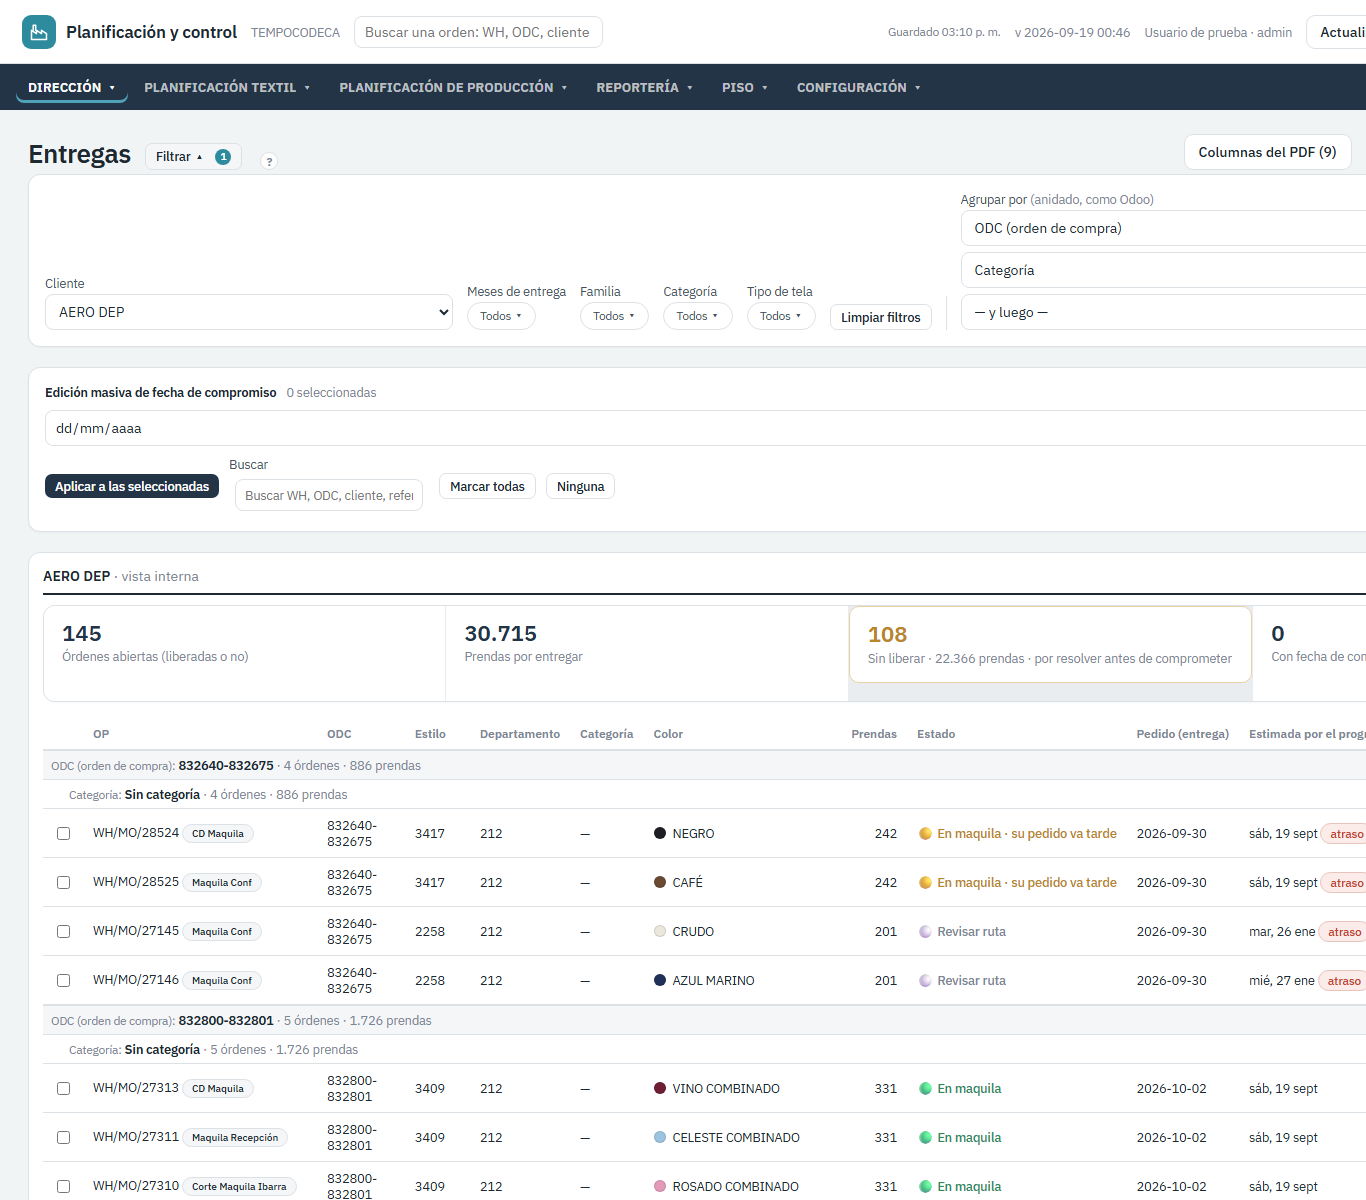
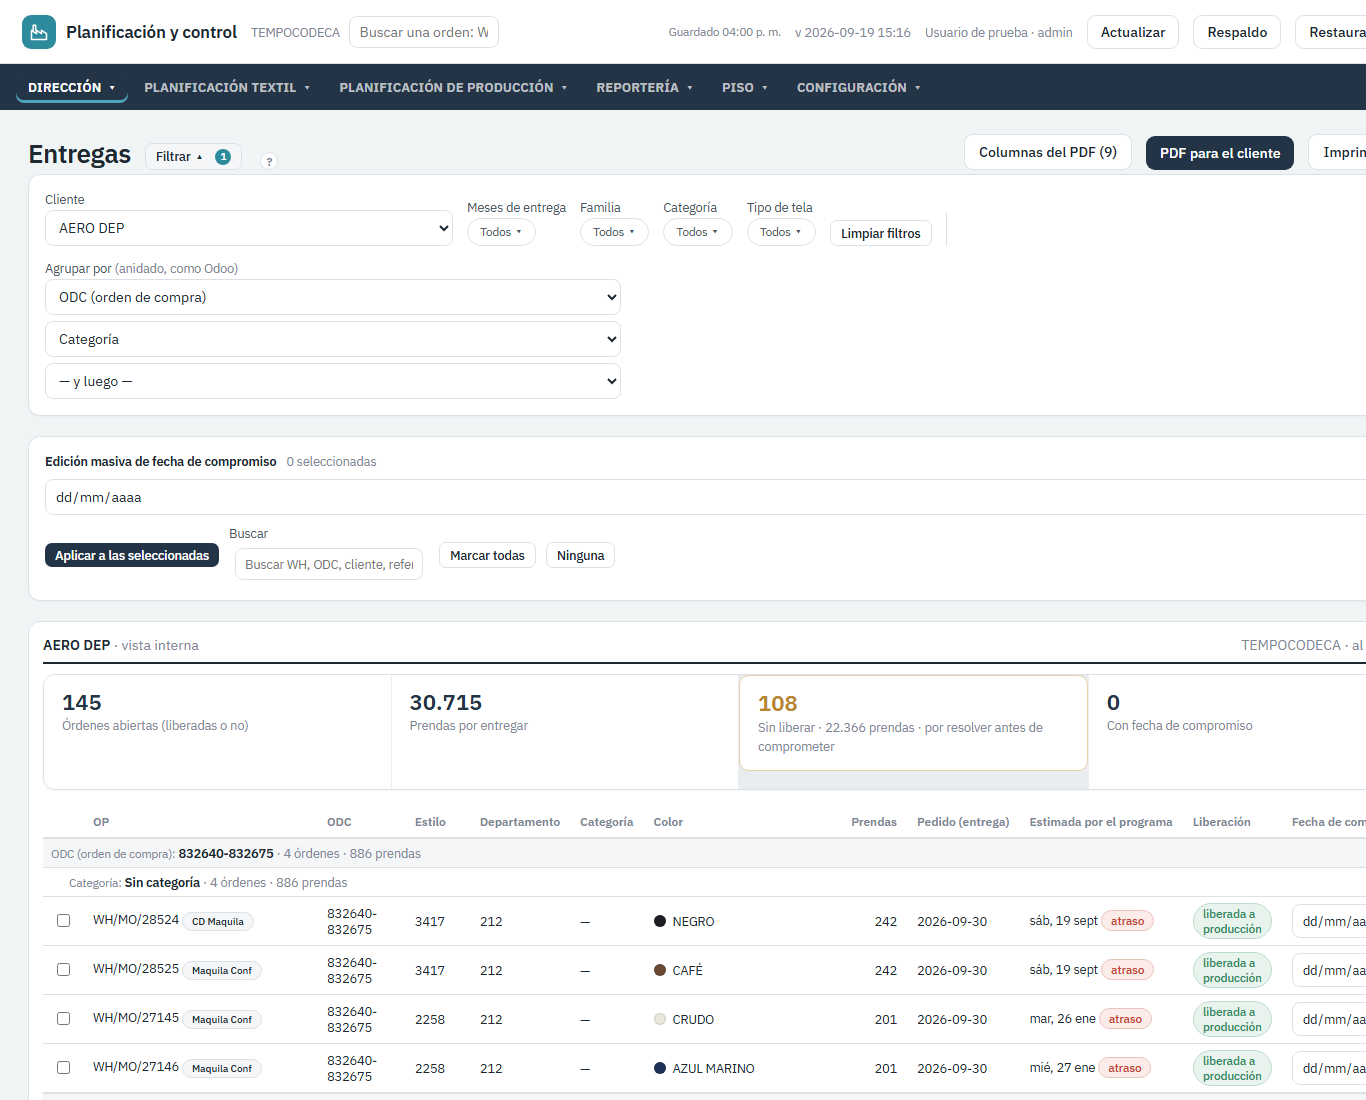
Resumen del centro: Listas = solo el grupo Disponible (el puesto manual ordena, no promueve) y solo órdenes de planta (con WH y tela liberada: lo de diseño / sin WH no entra, con nota de cuántas quedan fuera); Entregas vuelve como estaba (sin la columna de semáforo, como el cliente la necesita); pru

diff --git a/index.html b/index.html
@@ -768,7 +768,7 @@ async function _save(){
 }
 
 /* ---------- versión cargada vs publicada: nunca mirar números de una copia vieja sin saberlo ---------- */
-const APP_BUILD='2026-09-19 15:16';
+const APP_BUILD='2026-09-19 16:00';
 function verBotonesAdmin(){const ok=puede('config');['btn-respaldo','btn-restaurar'].forEach(id=>{const b=document.getElementById(id);if(b)b.style.display=ok?'':'none'})}
 function verVersion(){const e=document.getElementById('version');if(e)e.textContent='v '+APP_BUILD}
 async function revisarVersion(){try{const r=await fetch(location.pathname+'?nocache='+Date.now(),{cache:'no-store'});if(!r.ok)return;const t=await r.text();const m=t.match(/APP_BUILD=\x27([^\x27]+)\x27/);if(!m)return;
@@ -3510,7 +3510,7 @@ function vEntregas(el){
   if(!EG.cli&&clis.length){EG.cli=clis[0];vEntregas(el);return}
   const pzTot=lista.reduce((a,o)=>a+ +o.cant,0);const selCount=EG.sel.size;const nCols=colsEntregas().filter(colPdfOn).length;
   const sinLib=lista.filter(o=>!liberada(o,'tela')),sinLibPz=sinLib.reduce((a,o)=>a+ +o.cant,0);
-  const fila=o=>{const r=P.ordenes[o.id]||{};const lib=estadoLibEG(o);return `<tr><td class="no-print"><input type="checkbox" ${EG.sel.has(o.id)?'checked':''} onchange="togSelEG('${o.id}',this.checked)"></td><td style="white-space:nowrap">${whCell(o)}</td><td>${esc(o.odc||'')}</td><td>${esc(o.ref||'')}</td><td>${esc(o.depto||'')}</td><td>${esc(nombreCat(K(o.cat)))}</td><td style="white-space:nowrap">${dotColor(o.color)}${esc((C(o.color)||{}).n||'')}</td><td class="num">${num(o.cant)}</td><td>${estadoSemaforoHTML(o,P)}</td><td>${o.fecha||'<span class="tag t-aviso" title="sin fecha de entrega en Odoo">sin fecha</span>'}</td><td>${r.finPro?fmtDia(r.finPro)+(r.atraso?' <span class="tag t-alerta">atraso</span>':''):(r.bloqueo?'<span class="tag t-lavado">'+esc(r.bloqueo)+'</span>':'—')}</td>
+  const fila=o=>{const r=P.ordenes[o.id]||{};const lib=estadoLibEG(o);return `<tr><td class="no-print"><input type="checkbox" ${EG.sel.has(o.id)?'checked':''} onchange="togSelEG('${o.id}',this.checked)"></td><td style="white-space:nowrap">${whCell(o)}</td><td>${esc(o.odc||'')}</td><td>${esc(o.ref||'')}</td><td>${esc(o.depto||'')}</td><td>${esc(nombreCat(K(o.cat)))}</td><td style="white-space:nowrap">${dotColor(o.color)}${esc((C(o.color)||{}).n||'')}</td><td class="num">${num(o.cant)}</td><td>${o.fecha||'<span class="tag t-aviso" title="sin fecha de entrega en Odoo">sin fecha</span>'}</td><td>${r.finPro?fmtDia(r.finPro)+(r.atraso?' <span class="tag t-alerta">atraso</span>':''):(r.bloqueo?'<span class="tag t-lavado">'+esc(r.bloqueo)+'</span>':'—')}</td>
      <td><span class="tag ${lib==='sin liberar'?'t-lavado':'t-ok'}">${esc(lib)}</span></td>
      <td><input type="date" value="${o.fechaCompromiso||''}" ${puede('ordenes')?'':'disabled'} onchange="setCompromiso('${o.id}',this.value)"></td></tr>`};
   el.innerHTML=`<div class="pagehead"><h2>Entregas</h2><span class="spacer"></span><button class="btn ghost no-print" onclick="mColsEntregas()">Columnas del PDF (${nCols})</button> <button class="btn no-print" onclick="EG.pdf=true;render()">PDF para el cliente</button> <button class="btn ghost no-print" onclick="window.print()" title="imprime esta pantalla tal cual, con los datos internos">Imprimir pantalla</button></div>
@@ -3530,8 +3530,8 @@ function vEntregas(el){
    <button class="btn ghost sm" onclick="marcarTodoEG(false)">Ninguna</button></div></div>
   <section class="imp"><div class="imp-cab"><div><b>${esc(EG.cli||'Todos los clientes')}</b> <span class="mut">· vista interna</span></div><div class="mut">TEMPOCODECA · al ${new Date().toLocaleDateString('es-EC')}</div></div>
   <div class="kpis" style="margin:10px 0 16px"><div class="kpi"><div class="v">${lista.length}</div><div class="k">Órdenes abiertas (liberadas o no)</div></div><div class="kpi"><div class="v">${num(pzTot)}</div><div class="k">Prendas por entregar</div></div><div class="kpi ${sinLib.length?'warn':''}"><div class="v">${sinLib.length}</div><div class="k">Sin liberar · ${num(sinLibPz)} prendas · por resolver antes de comprometer</div></div><div class="kpi"><div class="v">${lista.filter(o=>o.fechaCompromiso).length}</div><div class="k">Con fecha de compromiso</div></div></div>
-  ${lista.length?`<table><thead><tr><th class="no-print" style="width:24px"></th><th>OP</th><th>ODC</th><th>Estilo</th><th>Departamento</th><th>Categoría</th><th>Color</th><th class="num">Prendas</th><th>Estado</th><th>Pedido (entrega)</th><th>Estimada por el programa</th><th>Liberación</th><th style="width:150px">Fecha de compromiso</th></tr></thead><tbody>
-   ${filasArbolEG(arbol,fila,13)}</tbody></table>`:'<p class="mut">Nada pendiente con estos filtros.</p>'}
+  ${lista.length?`<table><thead><tr><th class="no-print" style="width:24px"></th><th>OP</th><th>ODC</th><th>Estilo</th><th>Departamento</th><th>Categoría</th><th>Color</th><th class="num">Prendas</th><th>Pedido (entrega)</th><th>Estimada por el programa</th><th>Liberación</th><th style="width:150px">Fecha de compromiso</th></tr></thead><tbody>
+   ${filasArbolEG(arbol,fila,12)}</tbody></table>`:'<p class="mut">Nada pendiente con estos filtros.</p>'}
   ${avisoFueraDeBaseHTML('EG.q',lista,'los meses, la familia, el tipo de producto y la tela del filtro')}
   </section>`;
   __listaEG=lista;
@@ -7403,8 +7403,12 @@ function estadoListaCentro(f){const h=hoy();const p=f.paso||{};const rec=recDeFi
   return{k:'sinProg',dias:null,cls:'t-aviso',txt:'Sin programar',tip:'el programa no le dio fecha en este centro (sin recurso, sin tiempo estándar o bloqueada): el motivo está en la cola, pestaña Programación del centro'}}
 function ordenUrgencia(f){const k=estadoListaCentro(f).k;return k==='atrasada'?0:k==='hoy'?1:k==='futuro'?2:3}
 /* la cola partida en dos: LISTAS (con puesto manual o el paso anterior terminado) y EN ESPERA (todo lo demás, en el orden de la cola) */
-function listasYEspera(c,filas){const cola=colaCentro(c,filas);const listas=[],espera=[];
-  cola.forEach(f=>{const g=(f.cerc&&f.cerc.grupo)||'porLlegar';if(puestoDe(f.o,c)>0||g==='disponible')listas.push(f);else espera.push(f)});
+/* qué entra al Resumen de un centro: órdenes de PLANTA — con WH y con la tela liberada por planificación. Lo de diseño,
+   recetas o macro (sin WH o sin liberar) no tiene sentido en la pantalla de un centro todavía (decisión de la usuaria, 19-sep). */
+function enPlantaParaCentro(o){return lanzada(o)&&liberada(o,'tela')}
+function listasYEspera(c,filas){const cola=colaCentro(c,filas).filter(f=>enPlantaParaCentro(f.o));const listas=[],espera=[];
+  /* Listas = el paso anterior terminó (grupo Disponible). El puesto manual solo ORDENA dentro de su lista: no vuelve «lista» a una orden que no llegó */
+  cola.forEach(f=>{const g=(f.cerc&&f.cerc.grupo)||'porLlegar';if(g==='disponible')listas.push(f);else espera.push(f)});
   const fecha=f=>(f.paso.fin||f.paso.ini||'9');
   listas.sort((a,b)=>(puestoDe(a.o,c)||SIN_PUESTO)-(puestoDe(b.o,c)||SIN_PUESTO)||ordenUrgencia(a)-ordenUrgencia(b)||(fecha(a)<fecha(b)?-1:fecha(a)>fecha(b)?1:0)||((a.o.fecha||'')<(b.o.fecha||'')?-1:1));
   return{cola,listas,espera}}
@@ -7456,7 +7460,7 @@ function diaPorDiaHTML(cens,P,dias,recs,nombre){const h=hoy();const rec=CEN.rec|
   </div></div>`}
 /* la lista: Listas para <centro> N | En espera N · foto, WH y fase (whCell), producto, color, prendas hechas, debía salir, estado y el visto verde */
 function listaResumenCentroHTML(cens,P,filas,nombre){const h=hoy();const nVer=prm('filasResumenCentro',8);
-  const porC=cens.map(c=>({c,...listasYEspera(c,filas)}));
+  const porC=cens.map(c=>({c,...listasYEspera(c,filas)}));const fuera=[].concat(...cens.map(c=>colaCentro(c,filas))).filter(f=>!enPlantaParaCentro(f.o)).length;
   let listas=[].concat(...porC.map(x=>x.listas.map(f=>f))),espera=[].concat(...porC.map(x=>x.espera));
   if(CEN.rec){listas=listas.filter(f=>recDeFila(f)===CEN.rec);espera=espera.filter(f=>recDeFila(f)===CEN.rec)}
   if(CEN.dia){listas=listas.filter(f=>filaEnDiaCEN(f,P,CEN.dia));espera=espera.filter(f=>filaEnDiaCEN(f,P,CEN.dia))}
@@ -7475,11 +7479,12 @@ function listaResumenCentroHTML(cens,P,filas,nombre){const h=hoy();const nVer=pr
      <td class="num">${(e&&regHechoOk(f.c))?`<button class="visto" onclick="event.stopPropagation();mCerrarCentro('${f.o.id}','${f.c}')" title="terminar la orden en ${esc(nCen(f.c))}: queda libre para el siguiente centro${puedeCerrarPaso(f.o.id,f.c).ok?'':' · sin tiempo corrido pide motivo'}">✓</button>`:'<span class="mut" title="'+(e?'tu perfil no registra en este centro':'todavía no llega a este centro: el visto aparece cuando esté lista')+'">—</span>'}</td></tr>`};
   const verbo=nombre;
   return `<div class="panel res-lista"><div class="res-tabs"><span class="res-tab ${tab==='listas'?'on':''}" onclick="CEN.lista='listas';CEN.verTodo=false;render()">Listas para ${esc(verbo)} <b>${num(listas.length)}</b></span><span class="res-tab ${tab==='espera'?'on':''}" onclick="CEN.lista='espera';CEN.verTodo=false;render()">En espera <b>${num(espera.length)}</b></span><span class="spacer"></span>
-    <span class="mut" style="font-size:var(--fs-xs)">${tab==='listas'?'Ordenadas por urgencia: con puesto manual primero, luego atrasadas, las de hoy y las que siguen':'En el orden de la cola: Por llegar (por fase, la más cercana primero) → Todo lo que viene → Revisar ruta → Ya salió de aquí'}${ayudaTipHTML(tab==='listas'?'Listas = el paso anterior ya terminó (o la tela está lista en el primer centro) o alguien le puso puesto a mano. Están liberadas para trabajarlas ya.':'En espera = todavía no llegan a este centro: les falta un paso anterior o la tela. El estado dice cuándo llegan según el programa.')}</span></div>
+    <span class="mut" style="font-size:var(--fs-xs)">${tab==='listas'?'Ordenadas por urgencia: con puesto manual primero, luego atrasadas, las de hoy y las que siguen':'En el orden de la cola: Por llegar (por fase, la más cercana primero) → Todo lo que viene → Revisar ruta → Ya salió de aquí'}${ayudaTipHTML(tab==='listas'?'Listas = el paso anterior ya terminó (o la tela está lista en el primer centro): se pueden trabajar ya. El puesto manual solo cambia el orden; no vuelve «lista» a una orden que todavía no llegó. Solo entran órdenes de planta: con WH y con la tela liberada por planificación.':'En espera = todavía no llegan a este centro: les falta un paso anterior o la tela. El estado dice cuándo llegan según el programa. Solo órdenes de planta (con WH y tela liberada); lo de diseño no entra.')}</span></div>
    <div class="scroll"><table class="res-tabla"><thead><tr><th>#</th><th>Orden</th><th>Producto</th><th>Color</th><th>Prendas hechas</th><th title="fin programado del paso en este centro">Debía salir</th><th>Estado</th><th title="marcar hecha: queda libre para el siguiente centro">Liberar</th></tr></thead><tbody>
    ${vis.map(fila).join('')||'<tr><td colspan="8" class="mut" style="padding:14px">'+(tab==='listas'?'Ninguna orden lista'+(CEN.rec?' en '+esc(nRec(CEN.rec)):'')+(CEN.dia?' el '+fmtDia(CEN.dia):'')+'.':'Nada en espera.')+'</td></tr>'}
    </tbody></table></div>
    ${L.length>vis.length?`<div class="res-mas" onclick="CEN.verTodo=true;render()">Ver las ${num(L.length-vis.length)} restantes</div>`:(CEN.verTodo&&L.length>nVer?`<div class="res-mas" onclick="CEN.verTodo=false;render()">Ver menos</div>`:'')}
+   ${fuera?`<p class="mut" style="font-size:var(--fs-xs);margin:6px 16px 10px">${num(fuera)} ${fuera===1?'orden de este centro no se muestra':'órdenes de este centro no se muestran'} aquí porque todavía no ${fuera===1?'es':'son'} de planta (sin WH o sin liberar la tela: diseño, recetas, macro). Están en Órdenes.</p>`:''}
   </div>`}
 function resumenCentroHTML(cid,cens,P,dias,recs,nombre,filas){const h=hoy();const lun=dias[0],dom=dias[dias.length-1];
   const chips=recsChipsCentro(recs);if(CEN.rec&&!chips.some(r=>r.id===CEN.rec))CEN.rec='';
@@ -7487,6 +7492,7 @@ function resumenCentroHTML(cid,cens,P,dias,recs,nombre,filas){const h=hoy();cons
   const cong=cens.map(c=>congeladoDe(c,lun));const congelado=cong.length&&cong.every(Boolean);
   const pedido=pedidosCongelarAbiertos().find(b=>b.cid===cid&&b.lun===lun);
   const {listas}=(()=>{let l=[].concat(...cens.map(c=>listasYEspera(c,filas).listas));if(CEN.rec)l=l.filter(f=>recDeFila(f)===CEN.rec);return{listas:l}})();
+
   const labDias=dias.filter(d=>recs.some(r=>labR(d,r)));
   const semTxt=`Semana ${semanaISO(lun).split('-S')[1]} · ${fmtDia(lun)} al ${fmtDia(labDias[labDias.length-1]||dom)} · <b>hoy ${fmtDia(h)}</b>`;
   return `<div class="res-head"><div class="res-sem">${semTxt}</div></div>

diff --git a/test/driver.js b/test/driver.js
@@ -6477,8 +6477,13 @@ async function __run(){try{LISTO=true;}catch(e){}try{__R.prevFuzz=localStorage._
    {abrir('corte',1);const P=programar();const lun=lunesDe(dsum(h,7)),dom=dsum(lun,6);
     const filas=filasDeCentros(['corte'],P,lun,dom,'').filter(f=>faseOkCEN(f.o));const {cola,listas,espera}=listasYEspera('corte',filas);
     const ids=x=>x.map(f=>f.o.id).sort().join(',');
-    __check("RC2: Listas + En espera = la cola del centro (colaCentro), sin repetir ni perder ninguna",listas.length+espera.length===cola.length&&ids(listas.concat(espera))===ids(cola)&&new Set(listas.map(f=>f.o.id)).size===listas.length);
-    __check("RC2: Listas = puesto manual o grupo Disponible; En espera = todo lo demás",listas.every(f=>puestoDe(f.o,'corte')>0||(f.cerc&&f.cerc.grupo==='disponible'))&&espera.every(f=>!(puestoDe(f.o,'corte')>0)&&!(f.cerc&&f.cerc.grupo==='disponible')));
+    __check("RC2: Listas + En espera = la cola del centro (colaCentro) acotada a órdenes de planta, sin repetir ni perder ninguna",listas.length+espera.length===cola.length&&ids(listas.concat(espera))===ids(cola)&&new Set(listas.map(f=>f.o.id)).size===listas.length);
+    __check("RC2: Listas = SOLO grupo Disponible (el puesto manual ordena, no promueve); En espera = todo lo demás",listas.every(f=>f.cerc&&f.cerc.grupo==='disponible')&&espera.every(f=>!(f.cerc&&f.cerc.grupo==='disponible')));
+    __check("RC2: solo órdenes de planta: con WH y con la tela liberada; lo de diseño / sin WH no entra al Resumen",listas.concat(espera).every(f=>lanzada(f.o)&&liberada(f.o,'tela')));
+    {const oD=S.ordenes.find(o=>abiertaDe(o)&&!lanzada(o)&&(o.ruta||[]).some(p=>p.centro==='corte'));if(oD){oD.progCentro=Object.assign({},oD.progCentro,{corte:{pri:1}});const r2=listasYEspera('corte',filasDeCentros(['corte'],P,lun,dom,'').filter(f=>faseOkCEN(f.o)));
+      __check("RC2: una orden sin WH con puesto manual 1 NO aparece en Listas ni en En espera",!r2.listas.some(f=>f.o===oD)&&!r2.espera.some(f=>f.o===oD));delete oD.progCentro.corte}
+     const oP=espera.find(f=>!(f.cerc&&f.cerc.grupo==='disponible'));if(oP){oP.o.progCentro=Object.assign({},oP.o.progCentro,{[oP.c]:{pri:1}});const r3=listasYEspera('corte',filasDeCentros(['corte'],P,lun,dom,'').filter(f=>faseOkCEN(f.o)));
+      __check("RC2: una orden que aún no llegó, aunque le pongan puesto manual, sigue en En espera (no pasa a Listas)",!r3.listas.some(f=>f.o===oP.o)&&r3.espera.some(f=>f.o===oP.o));delete oP.o.progCentro[oP.c]}}
     __check("RC2: Listas va por urgencia: puesto manual primero y luego atrasada → para hoy → futuro → sin programar (nunca al revés)",(()=>{let ok=true;for(let i=1;i<listas.length;i++){const a=listas[i-1],b=listas[i];const pa=puestoDe(a.o,'corte')||SIN_PUESTO,pb=puestoDe(b.o,'corte')||SIN_PUESTO;if(pa<pb)continue;if(pa>pb){ok=false;break}if(ordenUrgencia(a)>ordenUrgencia(b)){ok=false;break}}return ok})());
     __check("RC2: En espera conserva el orden de la cola (Por llegar → Todo lo que viene → Revisar → Ya salió)",(()=>{const enCola=cola.filter(f=>espera.includes(f));return enCola.map(f=>f.o.id).join(',')===espera.map(f=>f.o.id).join(',')})());
     const t=[...pc().querySelectorAll('.res-tab')].map(txt);
@@ -6655,7 +6660,7 @@ async function __run(){try{LISTO=true;}catch(e){}try{__R.prevFuzz=localStorage._
     __check("H: «Filtrar» con un filtro activo se cierra al PRIMER clic y la preferencia se guarda con la clave del usuario logueado",(()=>{ORDF.q='camiseta';FILT={};FILT_USR=null;try{delete localStorage[filtClave()]}catch(e){}page='ordenes';render();const ab0=!pg('ordenes').querySelector('[data-filt-oculto]');togFiltros('ordenes');const cerrado=pg('ordenes').querySelectorAll('[data-filt-oculto]').length>0;let guardado=false;try{guardado=JSON.parse(localStorage[filtClave()]||'{}').ordenes===false&&filtClave()!=='__filt_anon'&&filtClave()!=='__filt_'}catch(e){}ORDF.q='';FILT={};return ab0&&cerrado&&guardado})());
     grpSt('ord').niveles=[];ORDF.q='';ORDF.fases=null;ORDF.estado='plan';ORDF.tab='ord';page='ordenes';render();const sems=pg('ordenes').querySelectorAll('table .sem');
     __check("H: Órdenes muestra el semáforo en la columna Estado de cada fila",sems.length>50&&[...sems].every(s=>/^(🟢|🟡|🔴|⚪) /.test(s.textContent.trim())&&s.title));
-    page='entregas';EG.q='';EG.meses=new Set();EG.cli='';EG.fam='';EG.hija='';EG.tela='';render();__check("H: Entregas tiene la columna Estado con el semáforo",/<th>Estado<\/th>/.test(pg('entregas').innerHTML)&&pg('entregas').querySelectorAll('.sem').length>10);
+    page='entregas';EG.q='';EG.meses=new Set();EG.cli='';EG.fam='';EG.hija='';EG.tela='';render();__check("H: Entregas NO lleva el semáforo (la usuaria la dejó como el cliente la necesita)",!/<th>Estado<\/th>/.test(pg('entregas').innerHTML)&&!pg('entregas').querySelector('.sem'));
     page='control';CTL.area='pro';render();__check("H: Control de piso (producción) tiene la columna Estado",/<th class="num">Prendas<\/th><th>Estado<\/th>/.test(pg('control').innerHTML));
     const oL=ab.find(o=>puedeLiberarA(o,'tela'));const oN=ab.find(o=>!puedeLiberarA(o,'tela')&&faltaLiberarA(o,'tela').includes('falta confirmar ruta'));
     __check("H: en Liberación la fila lista dice «🟢 Lista para liberar» y la que no, el semáforo más «falta confirmar ruta →» clicable",(!oL||/🟢 Lista para liberar/.test(filaLibB1(oL,'tela')))&&(!oN||(/class="sem/.test(filaLibB1(oN,'tela'))&&/falta confirmar ruta →/.test(filaLibB1(oN,'tela')))));

diff --git a/DUMMIES_1_CABECERA_PALABRAS_SEMAFORO.md b/DUMMIES_1_CABECERA_PALABRAS_SEMAFORO.md
@@ -57,8 +57,9 @@ configuración y los comentarios no se tocaron. Las pruebas del simulador que bu
 | ⚪ | **Sin ruta de producción** · **Cerrada en Odoo** | brecha visible / Estado OP cerrado |
 
 Dónde se ve: **Órdenes** (columna Estado, reemplaza a «sin liberar / bloqueo / atraso / a tiempo»), **Liberación**
-(«Qué la frena» empieza con el semáforo; «falta confirmar ruta →» sigue siendo clicable), **Entregas** (columna nueva),
-**Control de piso → producción** (columna nueva). El Resumen del centro ya lo tenía a su manera.
+(«Qué la frena» empieza con el semáforo; «falta confirmar ruta →» sigue siendo clicable) y **Control de piso →
+producción** (columna nueva). **Entregas no se toca**: quedó como el cliente la necesita (decisión de la usuaria, 19-sep).
+El Resumen del centro ya lo tenía a su manera.
 
 Sobre el volcado real en el simulador (1.079 abiertas, rutas sin confirmar): ⚪ Falta ruta 742 (+52 con meta vencida) ·
 🔴 Atrasada 183 (+6 con lo que les falta) · 🟡 Lista, va tarde 54 · 🟡 En <centro>, va tarde / su pedido va tarde 25 ·
@@ -87,6 +88,15 @@ Sobre el volcado real en el simulador (1.079 abiertas, rutas sin confirmar): ⚪
 - **Tablas**: colspan de las filas de grupo en Entregas y Control de piso; y un `</td` sin cerrar (preexistente) que
   desalineaba la tabla de producción de Control de piso.
 - Los errores de la simplificación ya no se tragan en silencio (consola y `__R.errors` en el simulador).
+
+## Corrección sobre la marcha (19-sep, con la pantalla de Corte en producción)
+
+En producción toda la cola de Corte tenía puesto manual («Juntar colores» numera todas), y el Resumen tomaba «con puesto
+manual» como «lista»: salían 588 «Listas para Corte» con órdenes en diseño y sin WH. Corregido: **Listas = solo el grupo
+Disponible** (el paso anterior terminó o la tela está lista); el puesto manual **ordena** dentro de la lista, no la
+promueve. Y al Resumen de un centro **solo entran órdenes de planta**: con WH y con la tela liberada por planificación
+(`enPlantaParaCentro`); lo de diseño, recetas o macro no entra y una nota al pie dice cuántas quedaron fuera. Probado
+con toda la cola numerada: 56 listas (todas disponibles), 467 fuera por no ser de planta.
 
 ## Pruebas
 

diff --git a/CLAUDE.md b/CLAUDE.md
@@ -825,7 +825,9 @@ el patrón.** Diccionario aprobado (textos visibles, no identificadores): cercan
 capacidad?»**; se quedan «Todo lo que viene», congelar, WH, ODC. **Semáforo**: `estadoSemaforo(o,P)` /
 `estadoSemaforoHTML` = un color (verde/ámbar/rojo/gris) y un verbo por orden, derivado de diagAtraso, liberada/
 faltaLiberarA, bloqueo, pasoProximoDe + cercaniaCentro — **no crear otro estado**; se usa en Órdenes (columna Estado),
-Liberación B1, Entregas y Control de piso. Modo del driver `?captura=ux<pantalla>[f][q]`. Ver
+Liberación B1 y Control de piso (**Entregas NO: quedó como el cliente la necesita**). **Resumen del centro**: Listas = solo
+grupo Disponible (el puesto manual ordena, no promueve) y solo órdenes de planta (`enPlantaParaCentro` = con WH y tela
+liberada); lo de diseño / sin WH no entra (decisión de la usuaria, 19-sep). Modo del driver `?captura=ux<pantalla>[f][q]`. Ver
 `DUMMIES_1_CABECERA_PALABRAS_SEMAFORO.md`. Roles dictados por la usuaria para A/B (portada por rol y menú de tareas):
 Santiago (corte+estampado+bordado), Mariela y Paola (módulos+maquila), Terminados (botones/lavado/plancha/empaque),
 Maquila (una persona, solo maquila), Jordan y Fernanda (liberar a producción + rutas), la usuaria (carga, liberación
